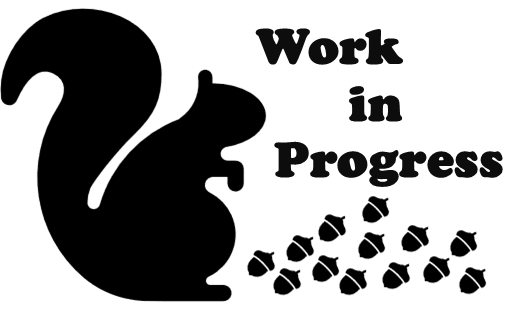
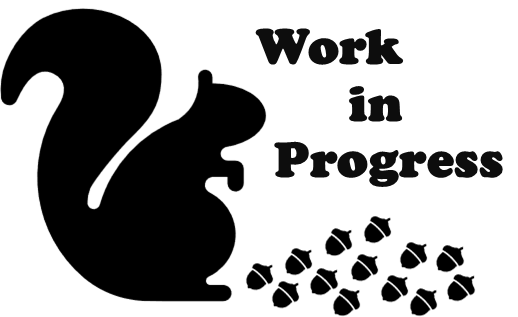
Bury the acorns

Changed region(s): [[0.4633, 0.5962, 0.9575, 1.0]]

diff --git a/README.md b/README.md
@@ -1,7 +1,7 @@
 # Timetracker-csv
 Track time spent on multiple projects, one repo at a time.
 
-A lightweight, repo-based, researcher name-based, command-line time tracker that stores data in csv files.
+A lightweight, repo-based, researcher name-based, command-line time tracker that stores data in csv spreadsheets.
 ![Work in progress](/doc/work_in_progress.png)
 
 
